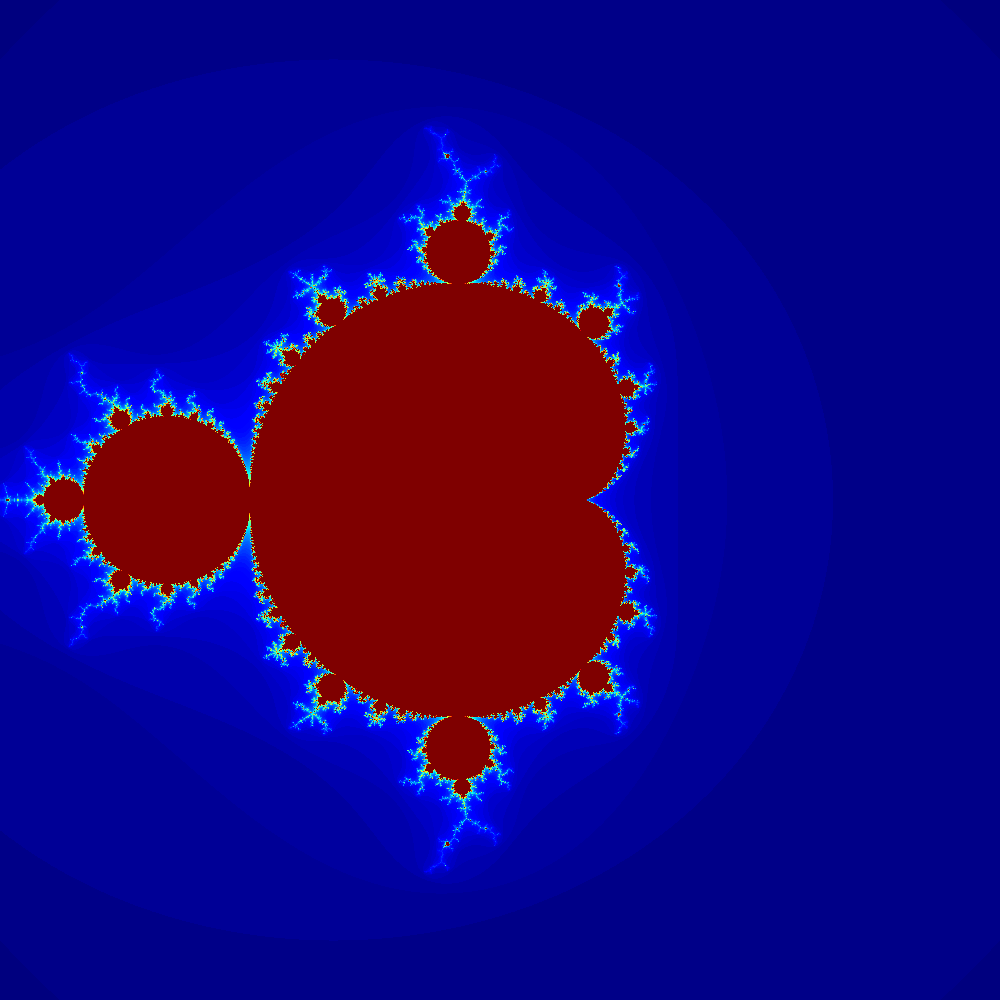
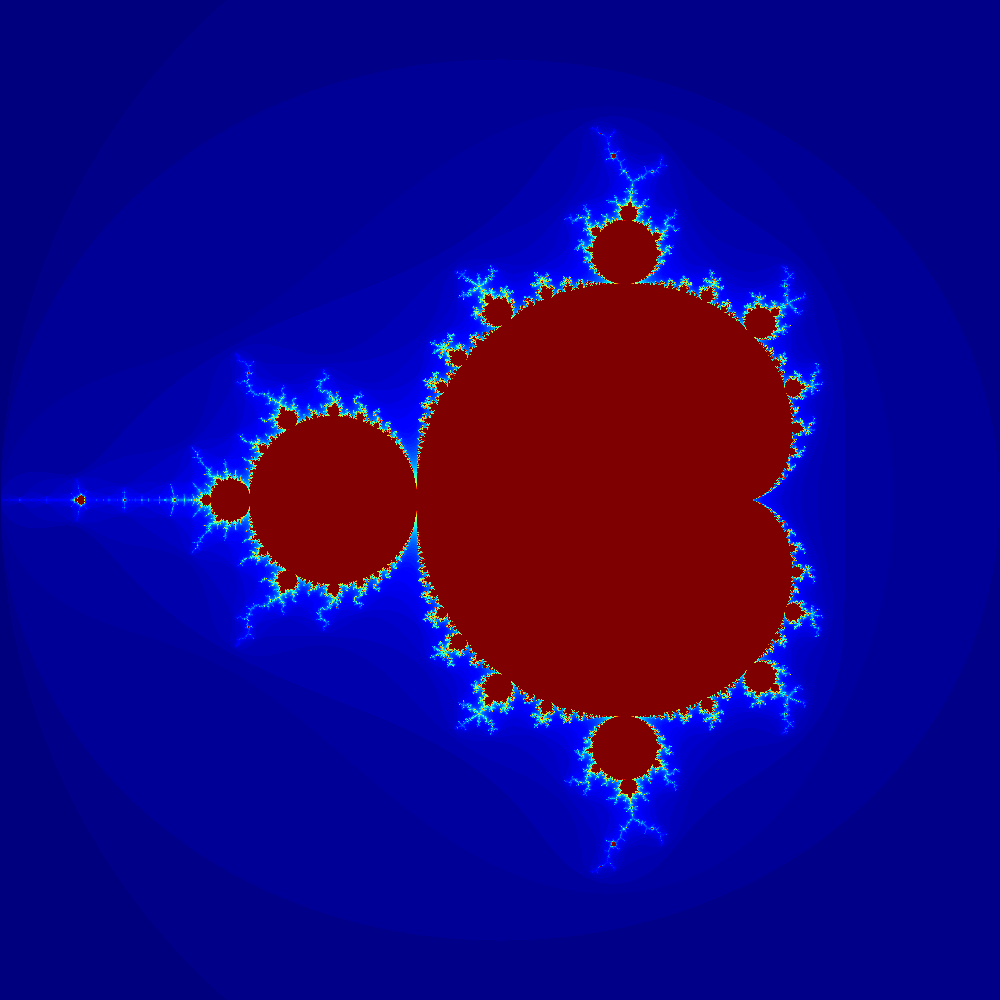
Added documentation and exmaple file

diff --git a/mandelbrot.py b/mandelbrot.py
@@ -135,15 +135,33 @@ def get_quadrants(limits):
     return quadrants
 
 
-def mandel_single(max_iter, res, limits):
+def mandel_single(max_iter, res, limits, name='man'):
+    """
+    Creates a single mandelbrot set picture with the given parameters
+    
+    Arguments:
+    max_iter: Maximum amount of iterations to perform to generate image
+    res: Resolution of image in pixels
+    limits: x / y limits for generating image"""
+
     t0 = time()
     man = manelbrot(max_iter, res, limits)
     t1 = time()
     print('Done! Took %.2f seconds.' % (t1-t0))
-    pyplot.imsave('man.png', man)
+    pyplot.imsave('{}.png'.format(name), man)
 
 
-def mandel_multi(max_iter, res, limits, base_name='mandel'):
+def mandel_multi(max_iter, res, limits, base_name='mandel'):]
+    """
+    Creates a 2x2 grid of mandelbrot set pictures
+    
+    Arguments:
+    max_iter: Maximum amount of iterations to perform to generate image
+    res: Resolution of image in pixels, this resolution is applied to each section of the grid,
+        giving the combined picture a resolution of twice the res
+    limits: x / y limits for generating image of the combined image
+    base_name: base name of files generated"""
+
     quadrants = get_quadrants(limits)
     for key, quadrant in enumerate(quadrants):
         t0 = time()
@@ -153,7 +171,20 @@ def mandel_multi(max_iter, res, limits, base_name='mandel'):
         pyplot.imsave('%s_%i.png' % (base_name, key+1), man)
 
 
-def julia_single(c, func, max_iter, res, limits, raw=False):
+def julia_single(c, func, max_iter, res, limits, raw=False, name='julia'):
+    """
+    Creates a single julia set picture with the given parameters
+    
+    Arguments:
+    c: a constant complex number for which to base julia set ones
+    func: function for which to iterate over
+    max_iter: Maximum amount of iterations to perform to generate image
+    res: Resolution of image in pixels
+    limits: x / y limits for generating image
+    raw: bool: False: use optimized calculation routines, may fail for more compicated functions
+               True: Use basic calculation routines, slower but will work for almost any function
+    name: name of file to generate"""
+
     t0 = time()
     if raw:
         man = julia_raw(complex(*c), func, max_iter, res, limits)
@@ -165,10 +196,21 @@ def julia_single(c, func, max_iter, res, limits, raw=False):
             man = julia_raw(complex(*c), func, max_iter, res, limits)
     t1 = time()
     print('Done! Took %.2f seconds.' % (t1-t0))
-    pyplot.imsave('man.png', man)
+    pyplot.imsave('{}.png'.format(name), man)
 
 
 def julia_multi(c, func, max_iter, res, limits, raw=False, base_name='julia'):
+    """
+    Creates a 2x2 grid of Julia set pictures
+    
+    Arguments:
+    c: a constant complex number for which to base julia set ones
+    func: function for which to iterate over
+    max_iter: Maximum amount of iterations to perform to generate image
+    res: Resolution of image in pixels, this resolution is applied to each section of the grid,
+        giving the combined picture a resolution of twice the res
+    limits: x / y limits for generating image of the combined image
+    base_name: base name of files generated"""
     quadrants = get_quadrants(limits)
     for key, quadrant in enumerate(quadrants):
         t0 = time()
@@ -208,25 +250,10 @@ def expand_function(func):
     return result
 
 
-def create_interval(center, distance):
+def create_interval(center, radius):
     x = center[0]
     y = -center[1]
 
-    return [[y - distance, y + distance], [x - distance, x + distance]]
-# man = mandel_array(5000, 500, limits)
-# limits = ((-1.5, 1.5), (-2.0, 1))
-# limits = create_interval([-0.1011, 0.9563], 0.1)
-limits = create_interval([0,0], 1.5)
+    return [[y - radius, y + radius], [x - radius, x + radius]]
 
-# julia_single((-0, 0.0), 
-#               'z**2 + c',
-#               100, 1000, limits, raw=False)
-mandel_single(100, 1000, limits)
 
-# t0 = time()
-# man = mandel_array(100, 1000, limits)
-# # man = julia_set(, lambda z, c: z**2 + c, 300, 5000, limits)
-# t1 = time()
-# print('Done! Took %.2f seconds.' % (t1-t0))
-# pyplot.imsave('man.png', man)
-# # pyplot.imshow(man)

diff --git a/example.py b/example.py
@@ -1,0 +1,11 @@
+from mandelbrot import *
+
+# Create an interval around a point with a given radius
+limits = create_interval(center=[-0.5,0], radius=1.5)
+
+julia_single(c=(-0, 0.0), 
+             func='z**2 + c',
+             max_iter=100, res=1000, limits=limits, raw=False, name='julia-test')
+
+
+mandel_single(max_iter=100, res=1000, limits=limits, name='mandelbrot-test')
